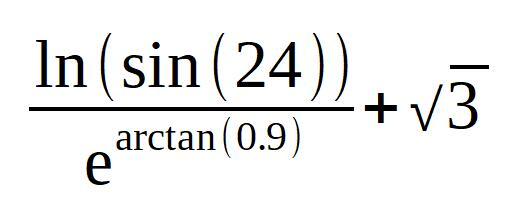
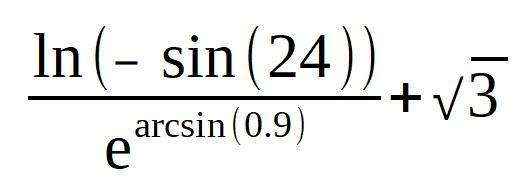
Add 0X0E中学算术

Changed region(s): [[0.0307, 0.1366, 0.952, 0.929], [0.8599, 0.3005, 0.9827, 0.3552], [0.4914, 0.1366, 0.5221, 0.1639]]

diff --git a/0X0E中学算术.md b/0X0E中学算术.md
@@ -2,4 +2,15 @@
 ## 前置知识
 * 0X0D数学库函数
 ## 正文
+1. 有了三角函数、反三角函数、对数函数、求幂运算，中学阶段涉及的所有具体的数值计算基本就都可以求解。对于分段函数、狄利克雷函数这类需要逻辑判断的函数还需要学习选择结构才能处理。
+2. 求此表达式的值：
+    ![中学算术习题](image/中学算术习题.jpg)
+3. 第2点中提出的习题，只需要简单转化为Lua中的表达式即可。也可以分为多步计算，用变量保存中间值。这里直接转换：
+    >```
+    >math.log(-math.sin(24))/math.exp(math.asin(0.9))+math.sqrt(3)
+    >```
+    结果是约为1.69968。
+4. 解释一下题中的函数用法。一个函数的返回值可以作为另一个函数的实参。因此可以把一个含有函数调用的表达式写在另一个函数调用的参数位置。
+5. 需要注意的是，很多中学的数学题还不能直接通过算术求解。例如求函数的值域、定义域。本质上不是从数到数的计算，而是从函数到数或者从函数到区间的运算。想要靠程序完全自动解决这类问题，还需要用到更多的Lua知识。
 ## 后续推荐
+* 暂无
